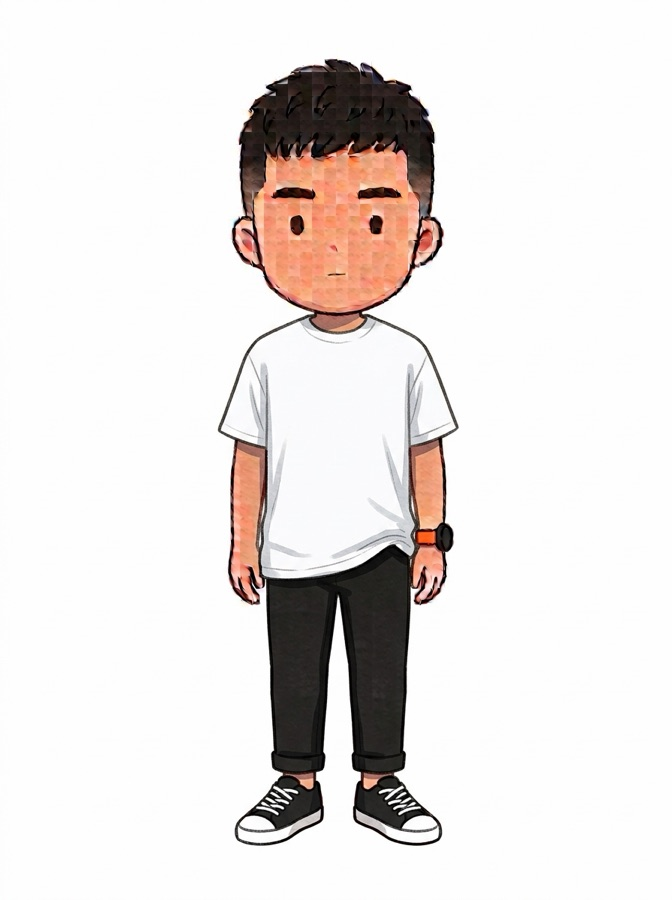
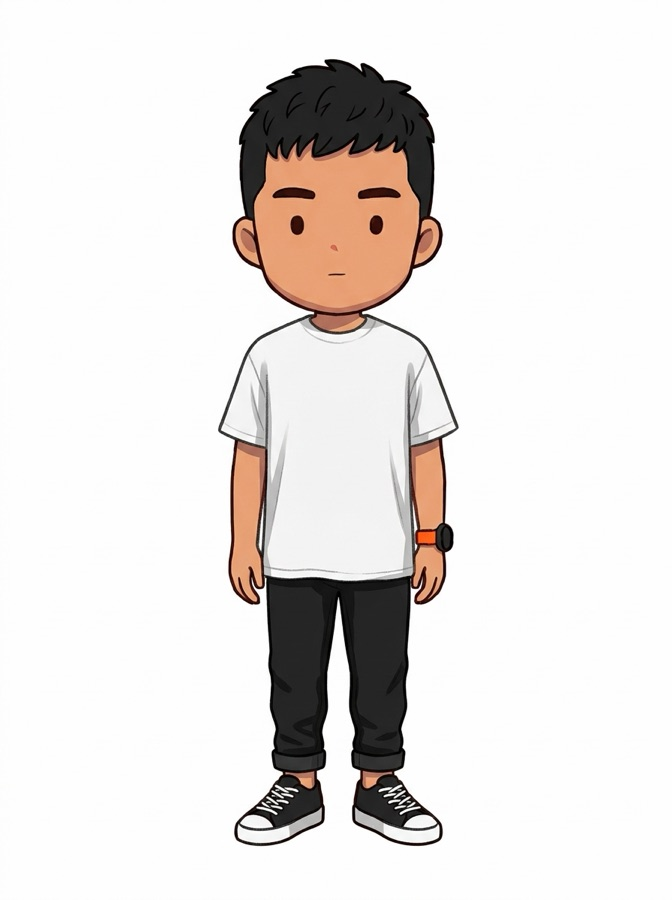
D 重繪：修正膚色網格紋理與過寬白 T

diff --git a/index.html b/index.html
@@ -1,5 +1,5 @@
 <!doctype html>
-<html lang="zh-Hant" data-v="31">
+<html lang="zh-Hant" data-v="32">
 <head>
 <meta charset="utf-8">
 <meta name="viewport" content="width=device-width, initial-scale=1, viewport-fit=cover">
